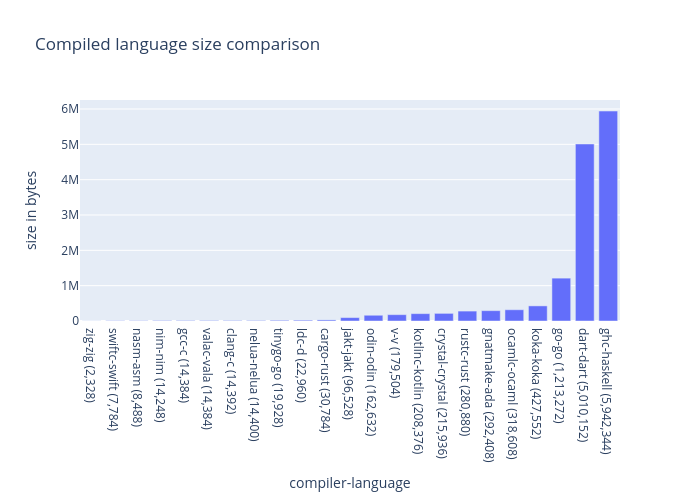
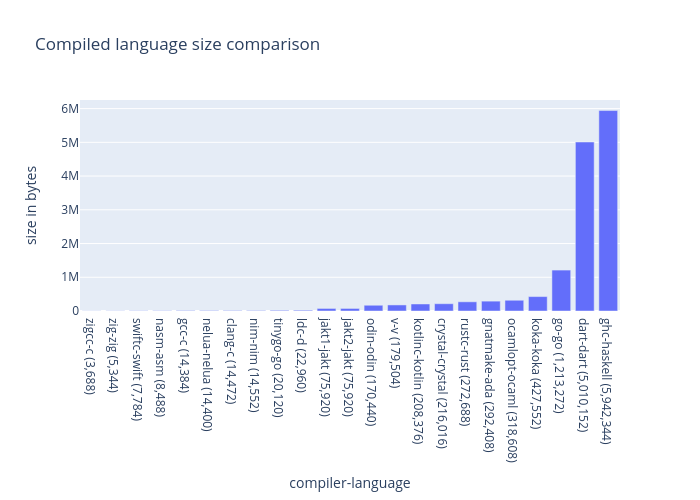
feat: update and add version number

diff --git a/scripts/readme.py b/scripts/readme.py
@@ -1,0 +1,55 @@
+#!/usr/bin/env python3
+
+readme = open("README.md", "w")
+
+sizetxt = open("size.txt",  "r")
+versiontxt = open("version.txt",  "r")
+size = sizetxt.readlines()
+version = versiontxt.readlines()
+
+version_data = list(map(lambda x: (
+    x.strip().split('|')[0],
+    x.strip().split('|')[1],
+), version))
+
+
+def get_version_number(compiler: str) -> (str | None):
+    for name, version in version_data:
+        if compiler.startswith(name):
+            return version
+    return None
+
+
+data = list(map(lambda x: (
+    x.strip().split(' ')[1].split('-')[1],
+    x.strip().split(' ')[1].split('-')[0],
+    get_version_number(x.strip().split(' ')[1].split('-')[0]),
+    x.strip().split(' ')[0],
+), size))
+
+new_line = "\n"
+
+template = f"""
+Compare size of compiled languages.
+
+### Chart
+
+Linear scale:
+
+![](./assets/chart.png)
+
+Logarithmic scale:
+
+![](./assets/chart_log.png)
+
+### Table
+
+| language | compiler | version | size (in bytes) |
+| -------- | -------- | ---------- | --------------- |
+{new_line.join(list(map(lambda x: f"|{x[0]}|{x[1]}|{x[2]}|{x[3]}|" ,data)))}
+
+"""
+readme.write(template.strip())
+readme.close()
+sizetxt.close()
+versiontxt.close()

diff --git a/README.md b/README.md
@@ -12,30 +12,28 @@ Logarithmic scale:
 
 ### Table
 
-| compiler - language | version \* | size (in bytes) |
-| ------------------- | ---------- | --------------- |
-| zig-zig             |            | 2,328           |
-| swiftc-swift        |            | 7,784           |
-| nasm-asm            |            | 8,488           |
-| nim-nim             |            | 14,248          |
-| valac-vala          |            | 14,384          |
-| gcc-c               |            | 14,384          |
-| clang-c             |            | 14,392          |
-| nelua-nelua         |            | 14,400          |
-| tinygo-go           |            | 19,928          |
-| ldc-d               |            | 22,960          |
-| cargo-rust          |            | 30,784          |
-| jakt-jakt           |            | 96,528          |
-| odin-odin           |            | 162,632         |
-| v-v                 |            | 179,504         |
-| kotlinc-kotlin      |            | 208,376         |
-| crystal-crystal     |            | 215,936         |
-| rustc-rust          |            | 280,880         |
-| gnatmake-ada        |            | 292,408         |
-| ocamlc-ocaml        |            | 318,608         |
-| koka-koka           |            | 427,552         |
-| go-go               |            | 1,213,272       |
-| dart-dart           |            | 5,010,152       |
-| ghc-haskell         |            | 5,942,344       |
-
-\* TODO: add compiler version.
+| language | compiler | version | size (in bytes) |
+| -------- | -------- | ---------- | --------------- |
+|c|zigcc|clang version 15.0.3 (git@github.com:ziglang/zig-bootstrap.git 0ce789d0f7a4d89fdc4d9571209b6874d3e260c9)|3,688|
+|zig|zig|0.10.0-dev.4707+209a0d2a8|5,344|
+|swift|swiftc|Swift version 5.6 (swift-5.6-RELEASE)|7,784|
+|asm|nasm|NASM version 2.15.05 compiled on Sep 24 2020|8,488|
+|c|gcc|gcc (GCC) 12.2.0|14,384|
+|nelua|nelua|Nelua 0.2.0-dev|14,400|
+|c|clang|clang version 14.0.6|14,472|
+|nim|nim|Nim Compiler Version 1.6.8 [Linux: amd64]|14,552|
+|go|tinygo|tinygo version 0.26.0 linux/amd64 (using go version go1.19.2 and LLVM version 14.0.0)|20,120|
+|d|ldc|LDC - the LLVM D compiler (1.30.0):|22,960|
+|jakt|jakt1|None|75,920|
+|jakt|jakt2|None|75,920|
+|odin|odin|odin version dev-2022-10:2cd895c5|170,440|
+|v|v|V 0.3.1 f2f6ea5|179,504|
+|kotlin|kotlinc|Kotlin/Native: 1.7.10|208,376|
+|crystal|crystal|Crystal 1.6.1 (2022-10-24)|216,016|
+|rust|rustc|rustc 1.66.0-nightly (db0597f56 2022-10-11)|272,688|
+|ada|gnatmake|GNATMAKE 12.2.0|292,408|
+|ocaml|ocamlopt|4.14.0|318,608|
+|koka|koka|Koka 2.3.8, 10:27:37 Dec 27 2021 (ghc release version)|427,552|
+|go|go|go version go1.19.2 linux/amd64|1,213,272|
+|dart|dart|Dart SDK version: 2.18.3 (stable) (Mon Oct 17 13:23:20 2022 +0000) on "linux_x64"|5,010,152|
+|haskell|ghc|The Glorious Glasgow Haskell Compilation System, version 9.0.2|5,942,344|
